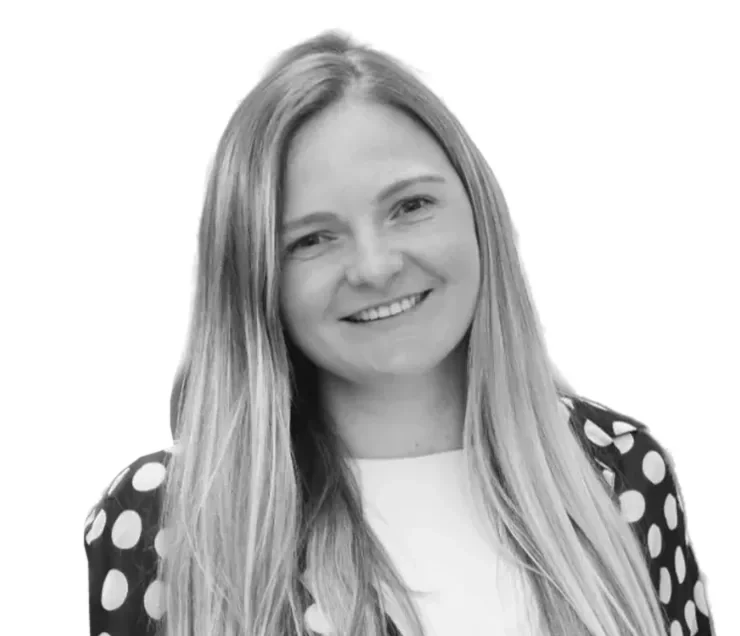
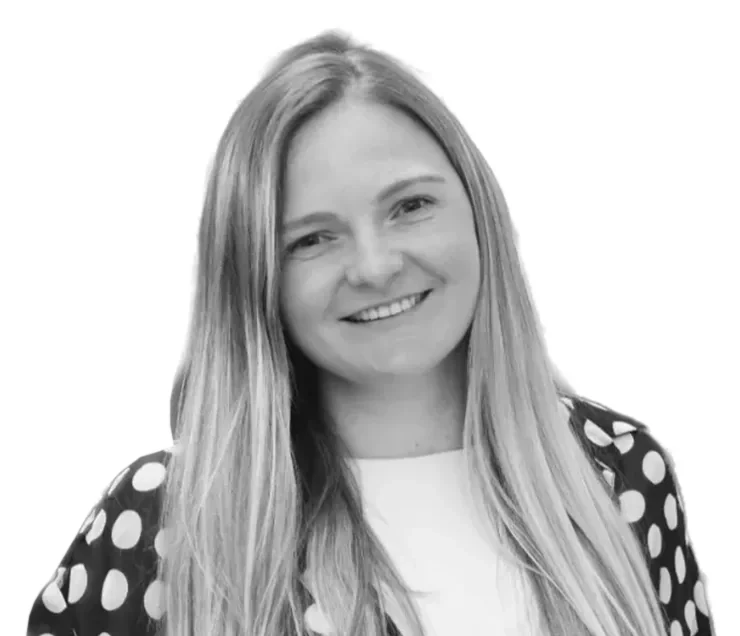
News: six post preview tiles (like the Wix POWR feed) above the Facebook and LinkedIn panels; About: Zara Brewer's shoulder recut to fall naturally to the bottom
Claude-Session: https://claude.ai/code/session_01UHWZ4rbaDVAgCPwQUzfbTQ

Changed region(s): [[0.0311, 0.8365, 0.1243, 1.0]]

diff --git a/news.html b/news.html
@@ -231,9 +231,14 @@
 <style>
 .feed-box{max-width:1080px;margin:0 auto;background:#fff;padding:48px 48px 52px;box-shadow:0 24px 60px -34px rgba(7,33,54,.5)}
 .feed-head{text-align:center;max-width:700px;margin:0 auto 34px}
-.feed-head h2{font-size:clamp(1.7rem,3.2vw,2.2rem);font-weight:700;color:var(--navy-deep);margin:0 0 12px}
+.feed-head h2{font-size:clamp(1.7rem,3.2vw,2.2rem);font-weight:400;color:var(--navy-deep);margin:0 0 12px}
 .feed-head .fade-rule{margin:0 auto 16px}
 .feed-head p{margin:0;color:#14202b}
+.post-grid{display:grid;grid-template-columns:repeat(3,minmax(0,1fr));gap:18px;margin:0 auto 40px}
+.post-tile{display:block;aspect-ratio:1/1;overflow:hidden;border:1px solid #e3e8ef;background:#f4f6f8}
+.post-tile img{width:100%;height:100%;object-fit:cover;display:block;transition:transform .35s ease}
+.post-tile:hover img{transform:scale(1.04)}
+@media (max-width:620px){.post-grid{grid-template-columns:repeat(2,minmax(0,1fr));gap:10px}}
 .feed-grid{display:grid;grid-template-columns:minmax(0,500px) minmax(0,1fr);gap:32px;justify-content:center;align-items:start}
 .fb-feed{min-height:520px;border:1px solid #e3e8ef;border-radius:8px;overflow:hidden;background:#fafbfc;display:flex;justify-content:center}
 .fb-feed iframe{display:block;border:0;max-width:100%}
@@ -294,6 +299,14 @@
           <h2>Latest News</h2>
           <span class="fade-rule" aria-hidden="true"></span>
           <p>Our newest posts, client stories and market updates, straight from our social channels.</p>
+        </div>
+        <div class="post-grid">
+          <a class="post-tile" href="https://www.linkedin.com/company/momentum-sales-progression/" target="_blank" rel="noopener"><img src="images/post-estas-awards.webp" alt="ESTAS Awards 2026 evening at Grosvenor House" loading="lazy" width="480" height="480"></a>
+          <a class="post-tile" href="https://www.linkedin.com/company/momentum-sales-progression/" target="_blank" rel="noopener"><img src="images/post-no-sale-no-fee.webp" alt="Why Momentum: our 'No Sale, No Fee' guarantee" loading="lazy" width="480" height="480"></a>
+          <a class="post-tile" href="https://www.linkedin.com/company/momentum-sales-progression/" target="_blank" rel="noopener"><img src="images/post-bath-crescent.webp" alt="The Royal Crescent, Bath" loading="lazy" width="480" height="480"></a>
+          <a class="post-tile" href="https://www.linkedin.com/company/momentum-sales-progression/" target="_blank" rel="noopener"><img src="images/post-spencers-testimonial.webp" alt="5 star testimonial from the Director of Spencers Estate Agents" loading="lazy" width="480" height="480"></a>
+          <a class="post-tile" href="https://www.linkedin.com/company/momentum-sales-progression/" target="_blank" rel="noopener"><img src="images/post-jennie-review.webp" alt="Client review praising Jennie" loading="lazy" width="480" height="480"></a>
+          <a class="post-tile" href="https://www.linkedin.com/company/momentum-sales-progression/" target="_blank" rel="noopener"><img src="images/post-velocity-platform.webp" alt="The Momentum sales progression platform" loading="lazy" width="480" height="480"></a>
         </div>
         <div class="feed-grid">
           <div class="fb-col">
